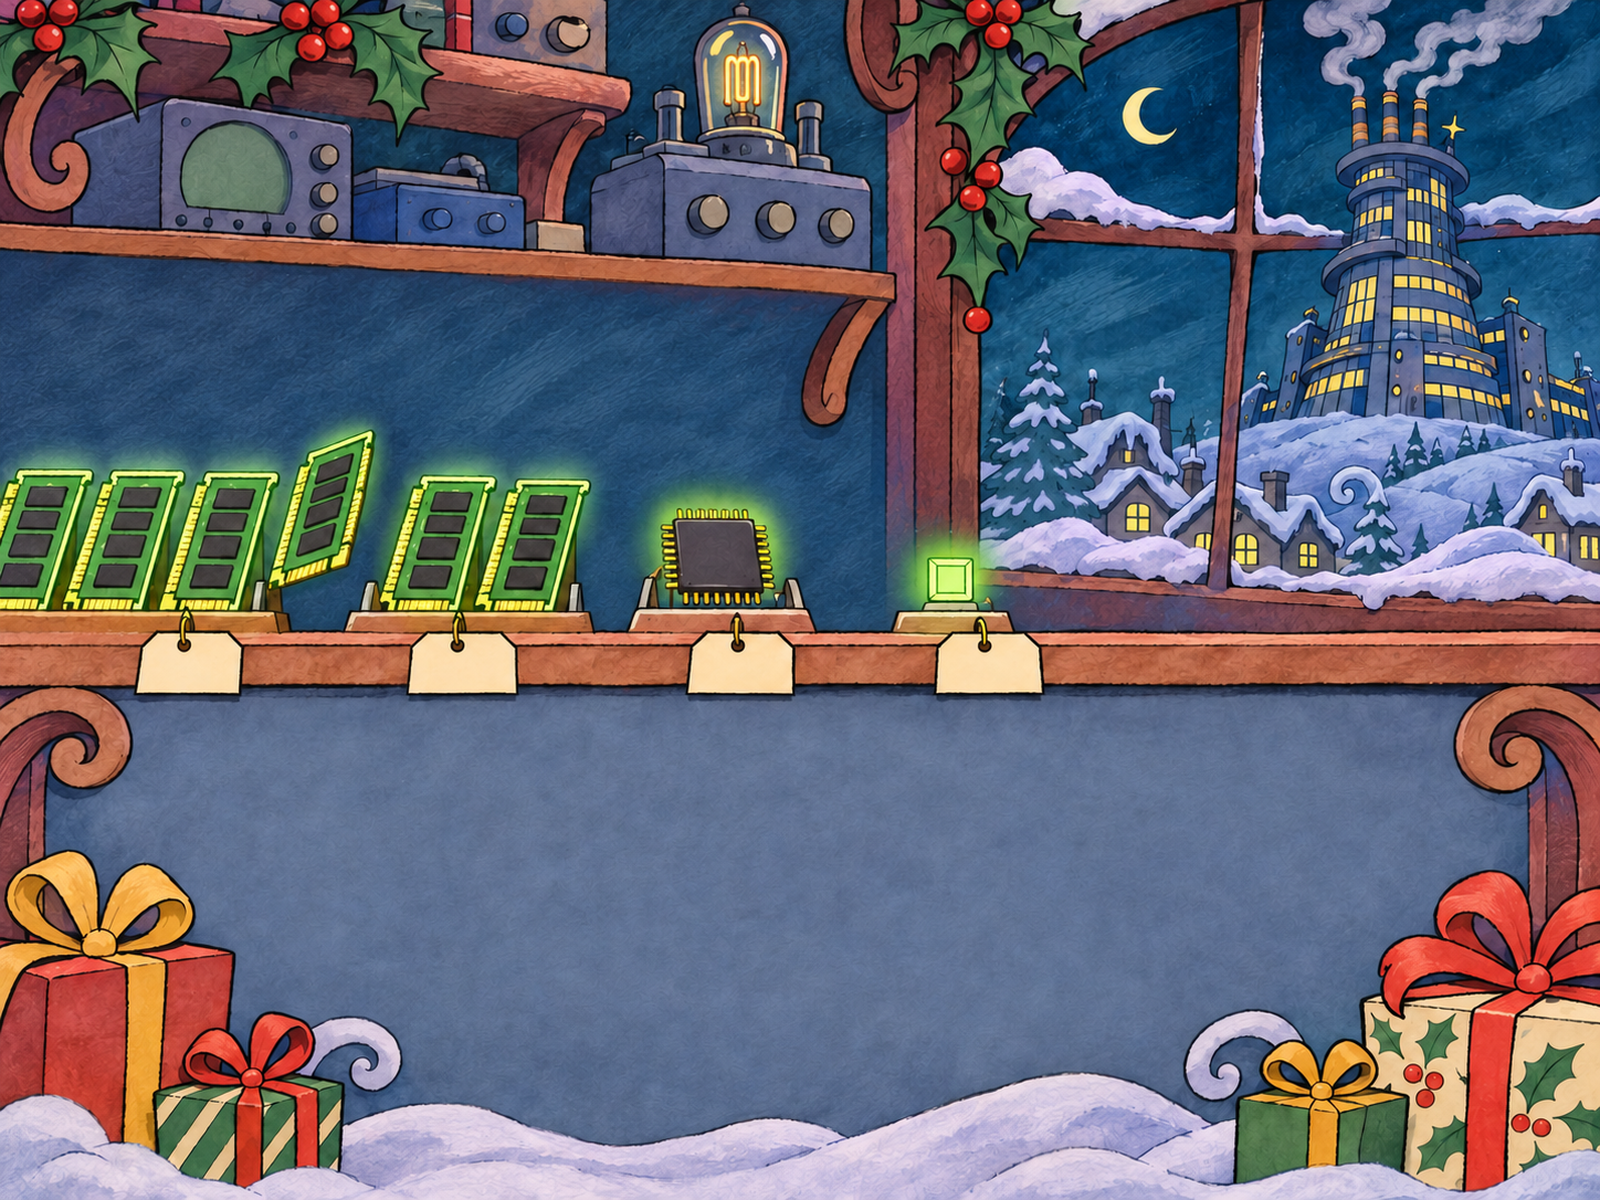
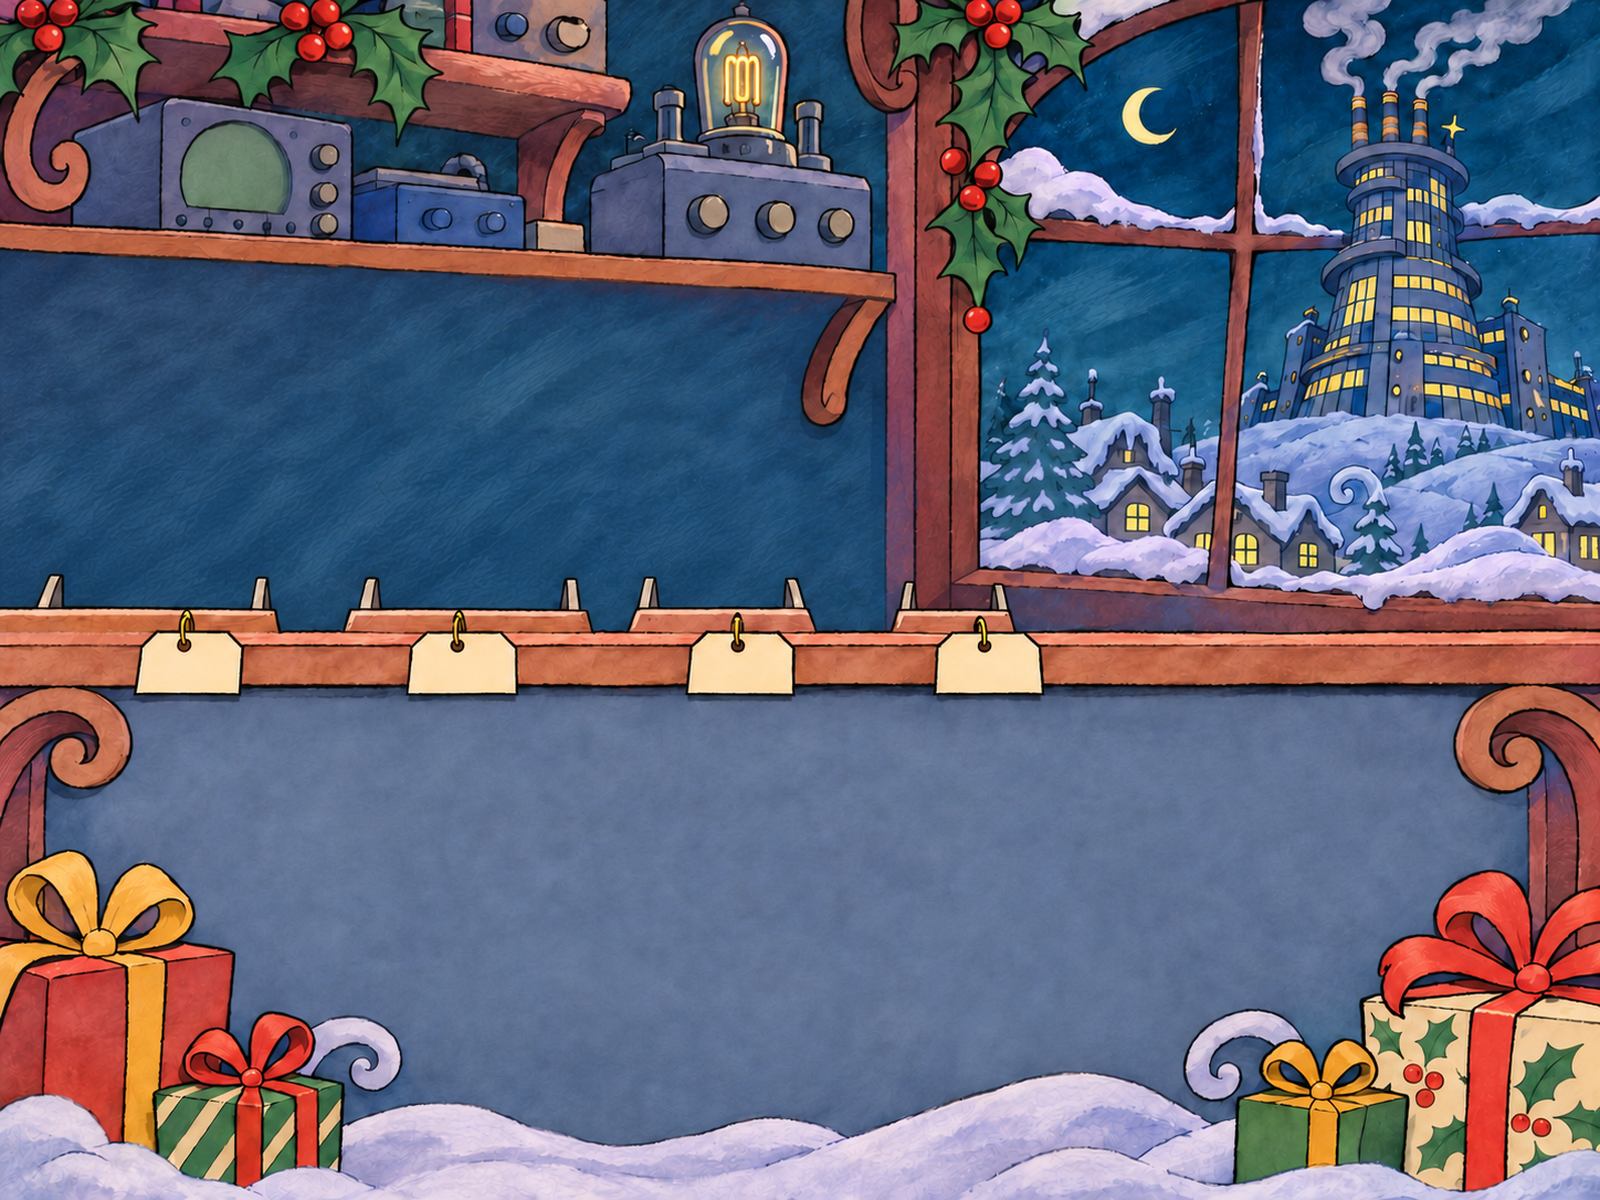
feat: stocked shelf taken item by item (10), RAM vacuum with a girl robbed of her box (25)
Claude-Session: https://claude.ai/code/session_01BFhReQ2JcUvxWY8MGAMx4B

diff --git a/src/shots/ram-side-shots.ts b/src/shots/ram-side-shots.ts
@@ -1,6 +1,7 @@
 /** Ram (side puppet) acting shots: 10, 24, 25, 26, 27, 39, 63. Positions in still px, sized from each still. */
 import {type P, add, easeOutBack, easeInOut, clamp01, lerp, followThrough, hoseEndAngle} from '../puppet/geom.ts';
 import {PARTS} from '../puppet/parts.ts';
+import {shoulders} from '../puppet/body.ts';
 import impact from '../timing/impact.json' with {type: 'json'};
 import audio from '../timing/audio.json' with {type: 'json'};
 import shots from '../shots.json' with {type: 'json'};
@@ -13,21 +14,30 @@ const W = 'ram-side';
 const rig = () => PARTS[W]._rig;
 const prop = (sprite: string, at: P, scale: number, rot = 0): Item => ({sprite: `sprites/props/${sprite}`, at, scale, rot});
 
-/** 10: "Every stick, every chip, every byte in the store!" — arms snake in from off-screen and snatch one item per word. */
+/** 10: "Every stick, every chip, every byte in the store!" — the shelf (plate 10, emptied) is stocked with RAM sticks, a
+ *  chip and a byte; rubber arms snake in from off-screen and take them one by one, each item leaving with the hand. */
+export const SHELF10: {sprite: string; pos: P; rot: number; scale: number; at: number}[] = [
+  {sprite: 'ram-stick', pos: [95, 612], rot: -72, scale: 0.62, at: wordAt(5, 1)},   // stick
+  {sprite: 'ram-stick', pos: [205, 612], rot: -72, scale: 0.62, at: wordAt(5, 3)},   // chip
+  {sprite: 'chip', pos: [718, 562], rot: 0, scale: 0.85, at: wordAt(5, 4)},
+  {sprite: 'byte', pos: [952, 570], rot: 0, scale: 0.7, at: wordAt(5, 5)},   // byte
+  {sprite: 'ram-stick', pos: [420, 612], rot: -72, scale: 0.62, at: wordAt(5, 6)},
+  {sprite: 'ram-stick', pos: [530, 612], rot: -72, scale: 0.62, at: wordAt(5, 8)},   // store
+];
 export const shot10: Choreo = (_t, frame) => {
   const t = twos(frame), S = 0.42, r = rig(), c = r.colors;
-  const targets: [number, P, string][] = [[wordAt(5, 1), [440, 540], 'ram-stick'], [wordAt(5, 3), [718, 555], 'chip'], [wordAt(5, 5), [950, 580], 'byte']]   // the painted shelf items;
   const items: Item[] = [];
-  targets.forEach(([at, tgt, what], i) => {
-    const near = i % 2 === 0, root: P = near ? [-60, 120] : [-60, 260];
-    const u = clamp01((t - (at - 0.35)) / 0.35), back = clamp01((t - at - 0.12) / 0.5);
-    if (t < at - 0.35 || back >= 1) return;
+  for (const it of SHELF10) if (t < it.at) items.push({...prop(it.sprite, it.pos, it.scale, it.rot), shelf: true} as Item);
+  SHELF10.forEach((it, i) => {
+    const near = i % 2 === 0, root: P = near ? [-60, 120] : [-60, 260], tgt = it.pos;
+    const u = clamp01((t - (it.at - 0.3)) / 0.3), back = clamp01((t - it.at - 0.08) / 0.4);
+    if (t < it.at - 0.3 || back >= 1) return;
     const out = easeOutBack(u), ret = easeInOut(back);
-    const hand: P = [lerp(root[0] + 120, tgt[0], out) + lerp(0, -tgt[0] - 200, ret), lerp(root[1] + 60, tgt[1], out) + lerp(0, -200, ret)];
+    const hand: P = [lerp(root[0] + 120, tgt[0], out) + lerp(0, -tgt[0] - 260, ret), lerp(root[1] + 60, tgt[1], out) + lerp(0, -200, ret)];
     const L = r.armLen * S * 2.6;
     items.push({hose: {a: root, b: hand, L, side: 1, width: r.armW * S, fill: near ? c.sleeve : c.sleeveFar, ink: c.ink}});
-    if (back > 0) items.push(prop(what, add(hand, [30, 10]), 0.5));
-    const hp = back > 0 ? 'hand-near-grab' : 'hand-near-open';
+    if (t >= it.at) items.push(prop(it.sprite, hand, it.scale, it.rot + 30 * back));
+    const hp = t >= it.at ? 'hand-near-grab' : 'hand-near-open';
     items.push({sprite: `puppets/ram-side/${hp}`, at: hand, scale: S, rot: hoseEndAngle(root, hand, L, 1), anchor: PARTS[W][hp].wrist, size: PARTS[W][hp].size});
   });
   return items;
@@ -89,28 +99,63 @@ function grabbed(t: number) {
 }
 export const shelfLeft = (t: number) => BOXES.length - Math.min(BOXES.length, grabbed(t));
 
-export const shot25: Choreo = (_t, frame) => {
-  const t = twos(frame), S = scaleFor(W, 640), floor = 1120, x = 1010, n = Math.min(BOXES.length, grabbed(t)), hit = beatHit(t);
+/** 25 geometry: Ram (facing left) wears the vacuum canister on his back; the hose runs from its top socket to the
+ *  wand end of the nozzle, which he aims at the shelf row being emptied. */
+const R25 = {x: 1010, floor: 1120}, CAN_S = 0.55, NOZ_S = 0.7;
+export function vacuum25(t: number, shot: {start: number; end: number}) {
+  const n = Math.min(BOXES.length, grabbed(t)), row = Math.min(3, Math.floor(n / 5)), hit = beatHit(t), S = scaleFor(W, 640);
+  const aimY = lerp(SHELVES[0] + 10, SHELVES[3] - 30, row / 3) + 6 * Math.sin(t * 9);
+  const wandEnd: P = [R25.x - 140, lerp(aimY, 700, 0.35)];
+  const grip: P = [wandEnd[0] - 60, wandEnd[1] + 4];
+  const mouth: P = [wandEnd[0] - 330 * NOZ_S, aimY];
+  const pose = stand(W, {t, x: R25.x, floor: R25.floor, S, flip: true, lean: 10 + 6 * hit, head: 'head-grin', headRot: -4 * hit, spread: 200,
+    hands: () => ({near: grip, far: add(wandEnd, [12, 14]), nearPart: 'hand-near-grab', farPart: 'hand-far-grab'})});
+  // strapped to his back: halfway down the spine, pushed out behind him (he faces left, so behind = +x)
+  const sh = shoulders(W, pose.hip, pose.lean, S, true), back: P = [(sh.neck[0] + pose.hip[0]) / 2 + 95 * S * 2, (sh.neck[1] + pose.hip[1]) / 2];
+  const socket: P = [back[0], back[1] - 380 * CAN_S * 0.42];
+  const b0 = beat(shot.start + 0.05).i, bN = beat(shot.end - 0.3).i;
+  return {socket, back, wandEnd, grip, mouth, aimY, pose, S, lastBeat: audio.beats[bN], b0, n};
+}
+
+export const shot25: Choreo = (_t, frame, shot) => {
+  const t = twos(frame), g = vacuum25(t, shot), S = g.S;
   const items: Item[] = [];
-  BOXES.slice(n).forEach(bx => items.push({sprite: 'sprites/store/ram-box', at: [bx.x, bx.y], scale: BOX_S, size: [220, 150], anchor: [110, 145]}));
-  // the girl, behind him: reaches for a box, then droops as the shelf empties
-  const gS = scaleFor('girl', 430), droop = clamp01(1 - shelfLeft(t) / BOXES.length);
-  const girl = stand('girl', {t, x: 1380, floor: 1040, S: gS, flip: true, lean: 6 + 14 * droop, head: droop > 0.7 ? 'head-X' : 'head-A', spread: 90,
-    hands: sh => ({near: add(sh.near, [lerp(-200, -60, droop) * gS, lerp(-20, 200, droop) * gS]), far: add(sh.far, [20 * gS, 230 * gS]), nearPart: 'hand-near-open', farPart: 'hand-far-open'})});
+  BOXES.slice(g.n).forEach(bx => items.push({sprite: 'sprites/store/ram-box', at: [bx.x, bx.y], scale: BOX_S, size: [220, 150], anchor: [110, 145]}));
+  // the girl, behind him, hugging the one box she picked — until the last beat sucks it away
+  const gS = scaleFor('girl', 430), sucked = clamp01((t - g.lastBeat) / 0.35), after = clamp01((t - g.lastBeat - 0.35) / 0.8);
+  const girl = stand('girl', {t, x: 1380, floor: 1040, S: gS, flip: true, lean: sucked > 0 ? lerp(-6, 16, after) : 2, head: after > 0.5 ? 'head-X' : 'head-A', spread: 90,
+    hands: sh => sucked <= 0
+      ? {near: add(sh.near, [-90 * gS, 190 * gS]), far: add(sh.far, [-60 * gS, 200 * gS]), nearPart: 'hand-near-open', farPart: 'hand-far-open'}
+      : {near: add(sh.near, [lerp(-120, -60, after) * gS, lerp(40, 230, after) * gS]), far: add(sh.far, [20 * gS, 230 * gS]), nearPart: 'hand-near-open', farPart: 'hand-far-open'}});
   items.push({who: 'girl', pose: girl, scale: gS});
-  // Ram: arms out to the shelf on each beat, then hugging the growing stack
-  const reach = hit, stackBase: P = [x - 70, floor - 470 * S * 1.15];
-  const pose = stand(W, {t, x, floor, S, flip: true, lean: 18 * reach - 6, head: 'head-grin', headRot: -8 * reach, spread: 200,
-    hands: () => ({near: [lerp(stackBase[0] - 40, 720, reach), lerp(stackBase[1] + 30, 640, reach)], far: [lerp(stackBase[0] + 40, 760, reach), lerp(stackBase[1] + 40, 700, reach)],
-      nearPart: reach > 0.4 ? 'hand-near-open' : 'hand-near-grab', farPart: reach > 0.4 ? 'hand-far-open' : 'hand-far-grab'})});
-  const shown = Math.min(n, 9);   // the armful is drawn behind him, so his face and arms read in front of it
-  for (let i = 0; i < shown; i++) {
-    const wob = Math.sin(t * 6 + i * 0.7) * i * 1.4;
-    items.push({sprite: 'sprites/store/ram-box', at: [stackBase[0] + wob, stackBase[1] - i * 52], scale: 0.5, size: [220, 150], anchor: [110, 145], rot: wob * 0.6});
+  if (sucked < 1) {
+    const from = add(girl.hands.near, [-10, -20]), at: P = [lerp(from[0], g.mouth[0], sucked * sucked), lerp(from[1], g.mouth[1], sucked) - 120 * Math.sin(Math.PI * sucked)];
+    items.push({sprite: 'sprites/store/ram-box', at, scale: 0.42 * (1 - 0.7 * sucked), size: [220, 150], anchor: [110, 75], rot: 400 * sucked});
   }
-  items.push({who: W, pose, scale: S});
+  // canister on his back, Ram aiming the nozzle, the hose between
+  items.push({sprite: 'sprites/vacuum/canister', at: g.back, scale: CAN_S, size: [300, 380], anchor: [150, 190], rot: g.pose.lean * 0.5});
+  items.push({who: W, pose: g.pose, scale: S});
+  const d = Math.hypot(g.wandEnd[0] - g.socket[0], g.wandEnd[1] - g.socket[1]);
+  items.push({hose: {a: g.socket, b: g.wandEnd, L: d * 1.25, side: -1, width: 26, fill: '#6e5536', ink: '#17121c'}});   // sags down under its own weight
+  const ang = Math.atan2(g.mouth[1] - g.wandEnd[1], g.wandEnd[0] - g.mouth[0]) * 180 / Math.PI;
+  items.push({sprite: 'sprites/vacuum/nozzle', at: g.wandEnd, scale: NOZ_S, size: [360, 140], anchor: [12, 70], flip: true, rot: -ang});
+  // boxes whooshing off the shelf into the nozzle (the last 0.3 s of grabs), with suction lines
+  for (let k = Math.max(0, g.n - 6); k < g.n; k++) {
+    const bx = BOXES[k], tk = grabTime(k, shot), u = clamp01((t - tk) / 0.3);
+    if (u >= 1) continue;
+    items.push({sprite: 'sprites/store/ram-box', at: [lerp(bx.x, g.mouth[0], u * u), lerp(bx.y - 70, g.mouth[1], u)], scale: BOX_S * (1 - 0.75 * u), size: [220, 150], anchor: [110, 75], rot: 300 * u});
+  }
+  for (let k = 0; k < 6; k++) {
+    const a = ((t * 3 + k / 6) % 1), y = g.mouth[1] + (k - 2.5) * 22;
+    items.push({draw: {kind: 'line', at: [g.mouth[0] - 260 * (1 - a), y + (k - 2.5) * 10 * (1 - a)], to: [g.mouth[0] - 260 * (1 - a) + 70, y], size: 4, color: '#fffbe6', opacity: a * 0.8}});
+  }
   return items;
 };
+/** When box k leaves the shelf. */
+function grabTime(k: number, shot: {start: number; end: number}): number {
+  const b0 = beat(shot.start + 0.05).i, bN = beat(shot.end - 0.3).i, per = Math.ceil(BOXES.length / Math.max(1, bN - b0));
+  return audio.beats[b0 + 1 + Math.floor(k / per)];
+}
 
 /** 26: shoves SSDs into the sack on the beats; on "umm, stash" he freezes and squints at the camera. */
 export const shot26: Choreo = (_t, frame) => {

diff --git a/docs/codex/28d-props.md b/docs/codex/28d-props.md
@@ -1,0 +1,14 @@
+# Brief: props and the shelf (pass 3)
+
+Use your image_gen tool. Look at every result; regenerate if off-style, misaligned, if anything listed as removed is still there, or if any text/letters/numbers/logos appear. Do not ask questions. Stop when every file exists and you have checked it. Never write preview files into public/; write your contact sheet to out/sheets/ as named below.
+
+## Style (most important)
+A 1960s made-for-TV Christmas cartoon special look: thin, slightly wobbly black ink outlines, flat cel colors with no gradients on characters, watercolor-wash backgrounds with dry-brush texture, curly swooping shapes, exaggerated spindly limbs, slightly limited palette (deep teal-blue night, snow white with lavender shadow, holly red, warm window yellow, sickly villain green). It must be an ORIGINAL design: do not copy the Grinch, Whoville, Scrooge McDuck or any existing character.
+No text, letters, numbers or logos anywhere in any image.
+
+Plates are exactly 1600x1200 (Pillow crop/resize, never stretch). "Repaint" = keep composition, palette, camera and every other element exactly, with only the listed things removed and the space behind them painted in naturally. "Layer" = a FULL 1600x1200 frame on flat magenta #FF00FF containing ONLY the named thing at exactly its original position, size and pose (pixel-aligned with its source), everything else magenta, no magenta inside the subject.
+Contact sheet: out/sheets/props-p3.png.
+
+- public/plates/10.png (overwrite; source public/plates/10.png): repaint with ALL the glowing RAM sticks, the chip and the little glowing byte REMOVED from the shelf (keep the shelf, the little stands and the blank tags, the window, gifts).
+- public/sprites/vacuum/canister.png: a 1960s cartoon canister vacuum worn like a backpack (rounded brass-and-red tank with straps and a hose socket on its top), 300x380; public/sprites/vacuum/nozzle.png: a wide vacuum nozzle head with a short wand, pointing RIGHT, 360x140, hose socket at its left end. Magenta, keyed with .venv/bin/python -I scripts/key_magenta.py IN OUT --margin 10.
+- public/sprites/props/ram-pile.png: a big heap/mountain of green RAM sticks and chips, 520x420, magenta, keyed the same way.
